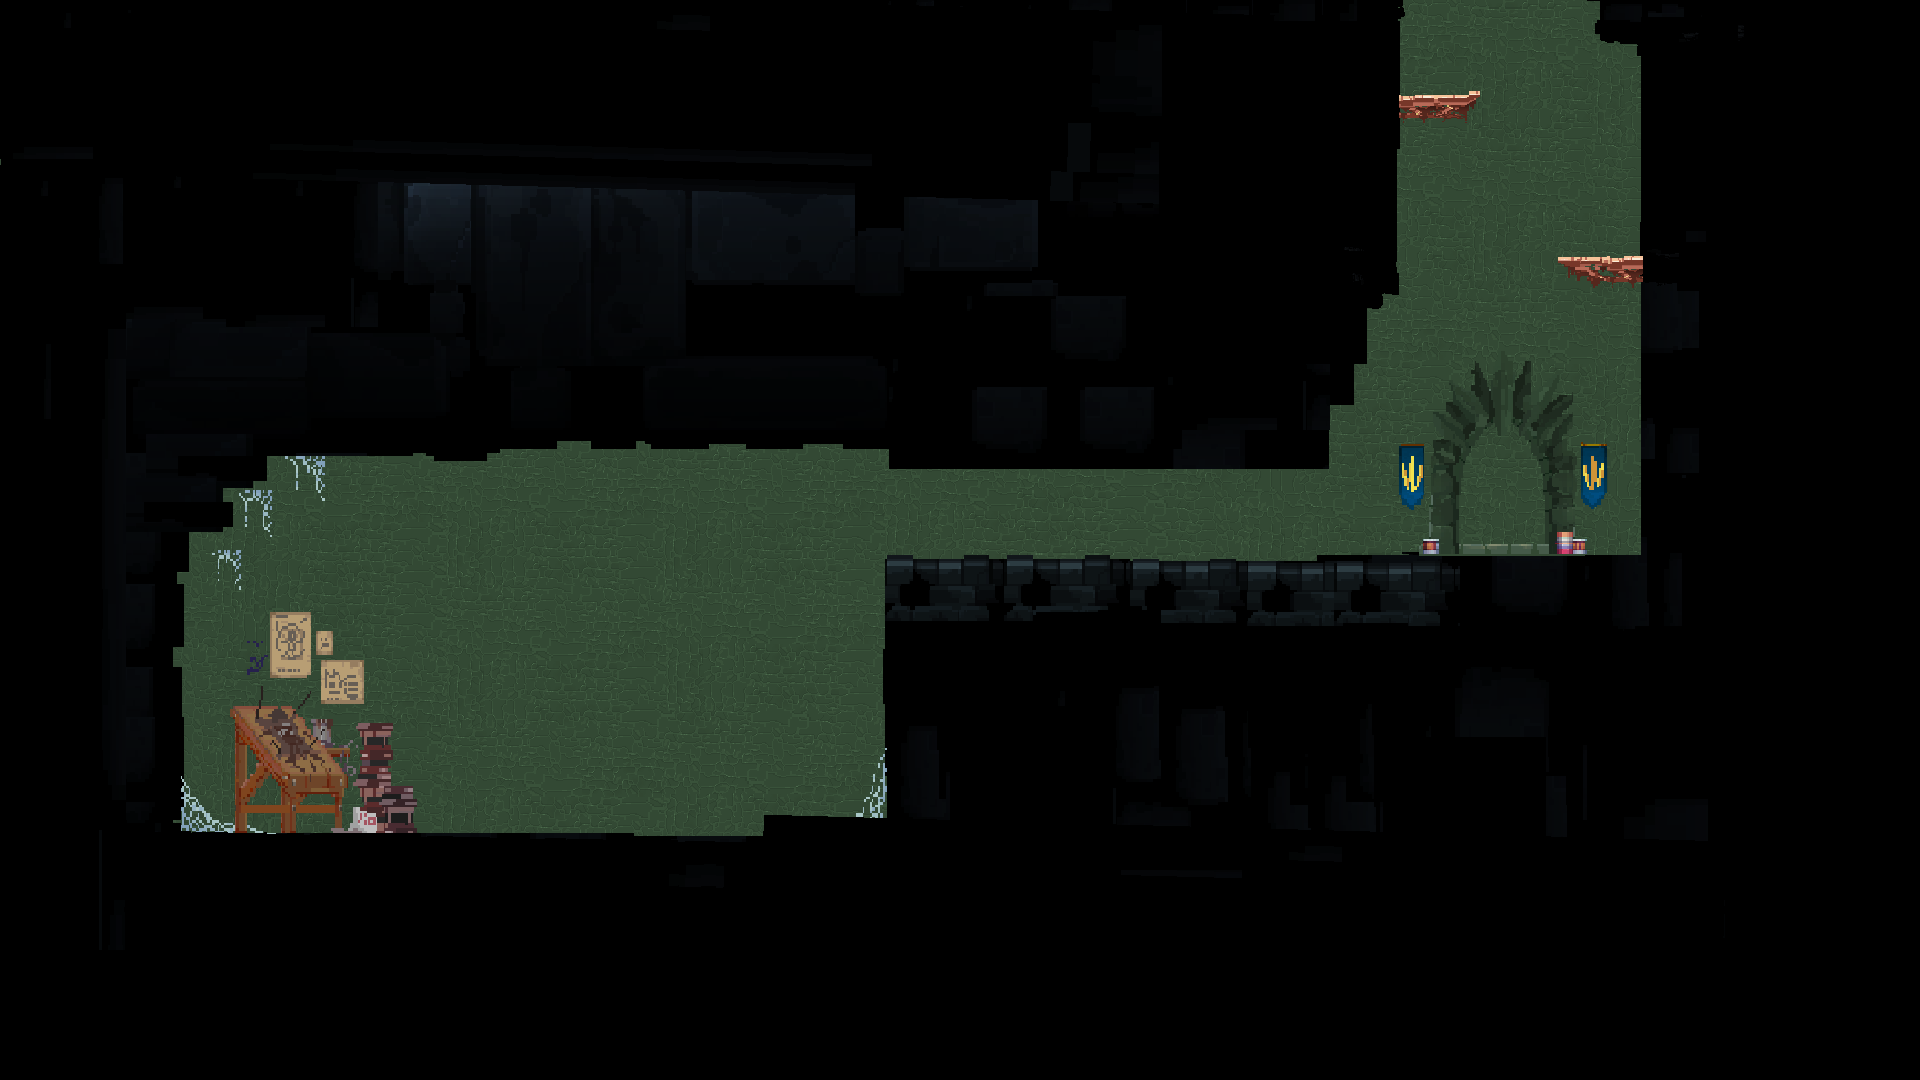
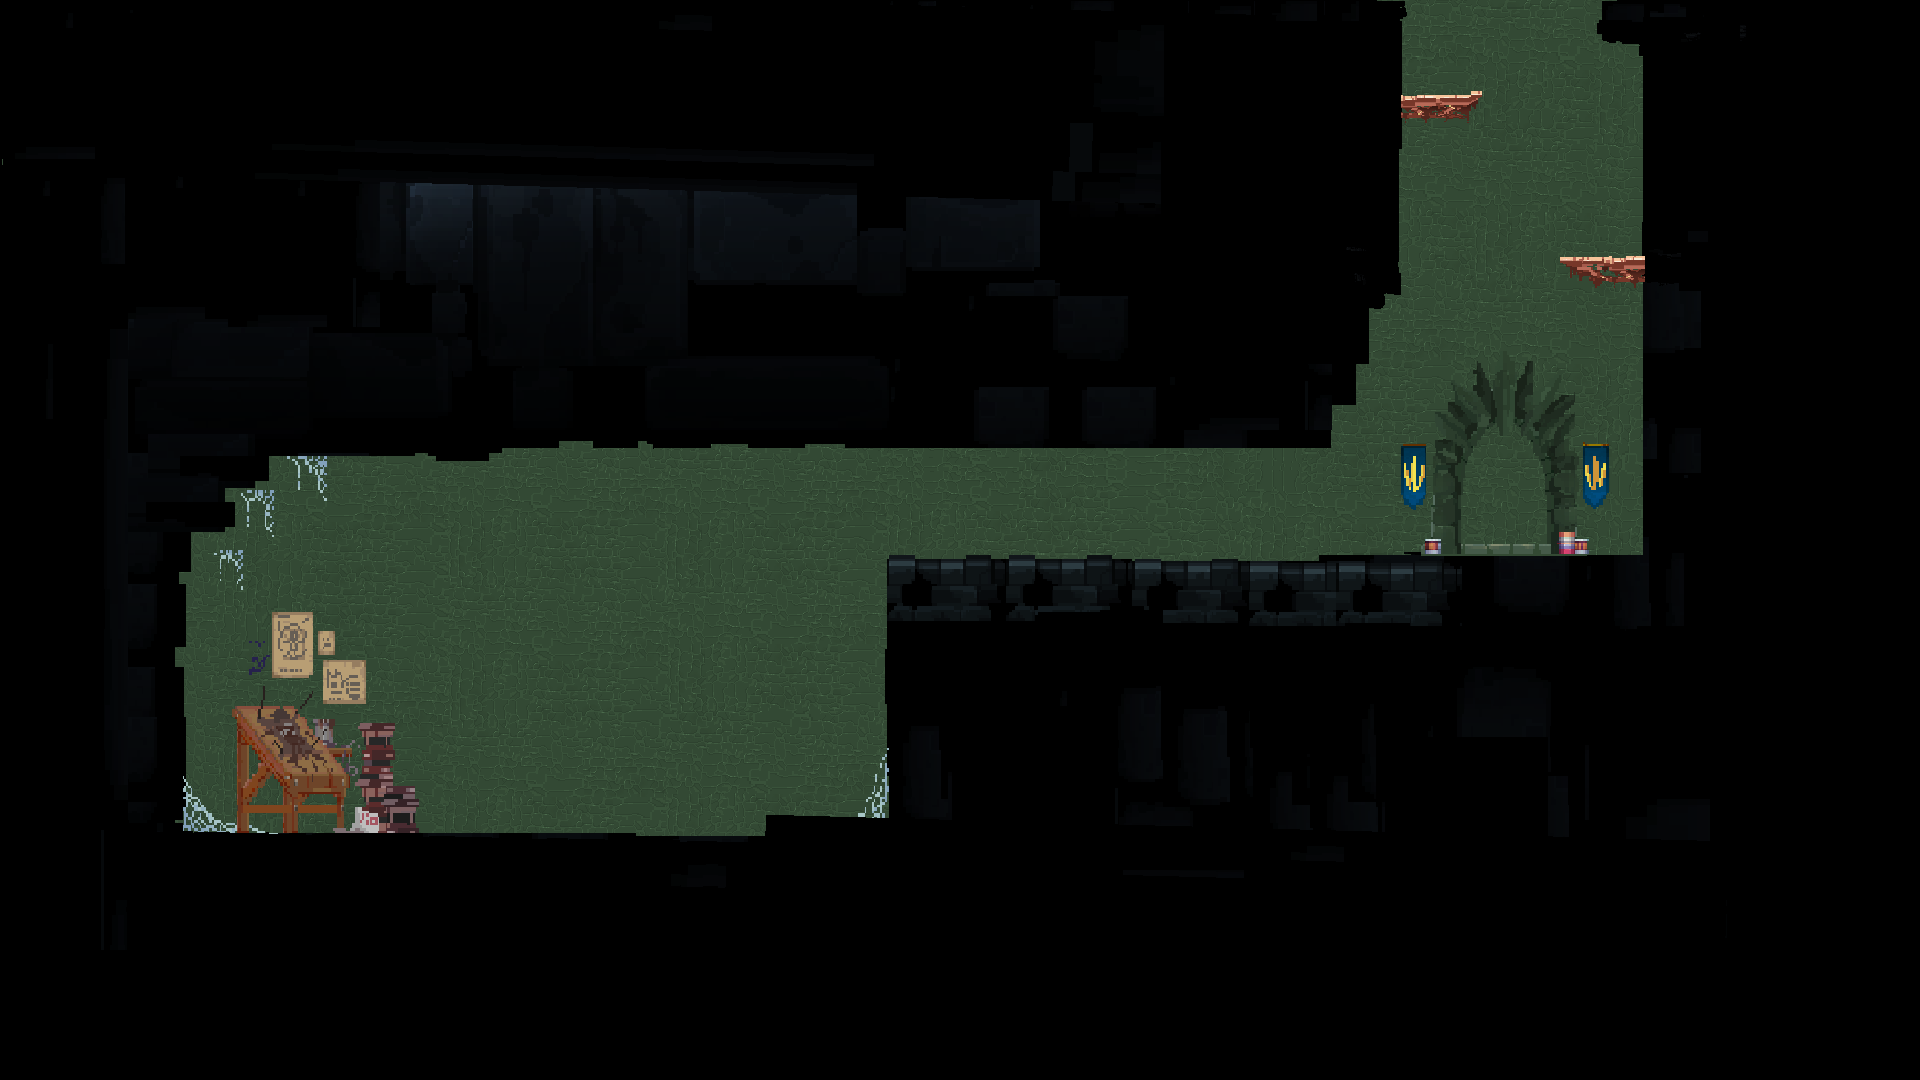
Map Update
* commit

* commit

* test

* commit

* commit

* commit

* commit

---------

diff --git a/src/App/AppInGameInit.cpp b/src/App/AppInGameInit.cpp
@@ -33,12 +33,13 @@ void App::InGameInit() {
 
     //bg
     glm::vec2 temp_pos(1, 1);
-    BGs.resize(4);
+    BGs.resize(6);
     BGs[0] = std::make_shared<BG>(RESOURCE_DIR"/bg/bg1.png", temp_pos, glm::vec2{0.8f, 0.8f});
     BGs[1] = std::make_shared<BG>(RESOURCE_DIR"/bg/bg2.png", glm::vec2{1616.0f, 174.0f}, glm::vec2{0.9f, 0.9f});
     BGs[2] = std::make_shared<BG>(RESOURCE_DIR"/bg/bg3.png", glm::vec2{3817.0f, 318.5f}, glm::vec2{1.4f, 1.4f});
-    BGs[3] = std::make_shared<BG>(RESOURCE_DIR"/bg/bg4.png", glm::vec2{1616.0f, -673.0f}, glm::vec2{0.9f, 0.9f});
-
+    BGs[3] = std::make_shared<BG>(RESOURCE_DIR"/bg/bg5.png", glm::vec2{6309.5f, 316.5f}, glm::vec2{1.2f, 1.2f});
+    BGs[4] = std::make_shared<BG>(RESOURCE_DIR"/bg/bg6.png", glm::vec2{6309.5f, -970.0f}, glm::vec2{1.2f, 1.2f});
+    BGs[5] = std::make_shared<BG>(RESOURCE_DIR"/bg/bg4.png", glm::vec2{1616.0f, -673.0f}, glm::vec2{0.9f, 0.9f});
     for (auto& temp : BGs){
         MapObjs.push_back(temp);
         root.AddChild(temp);
